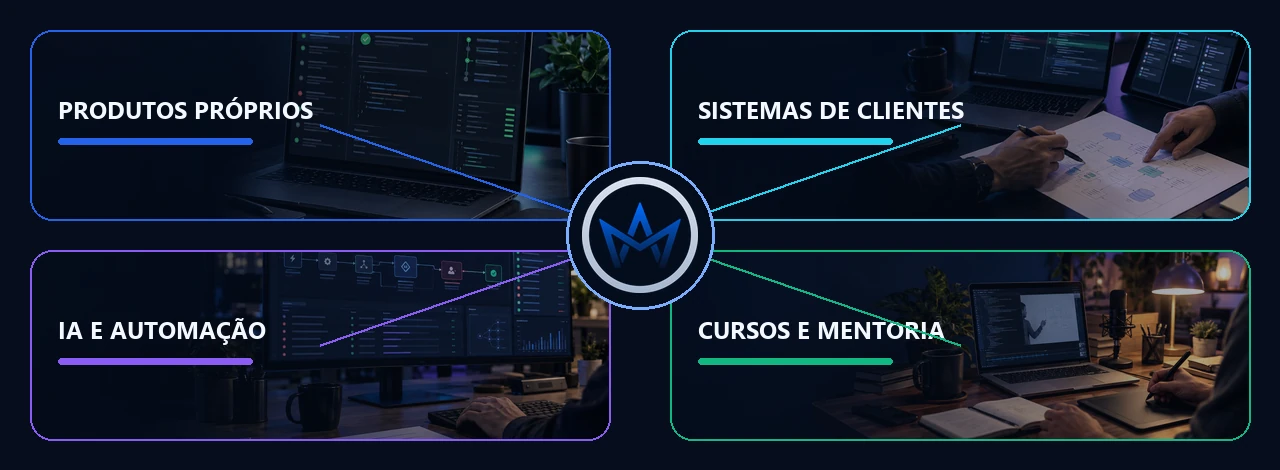
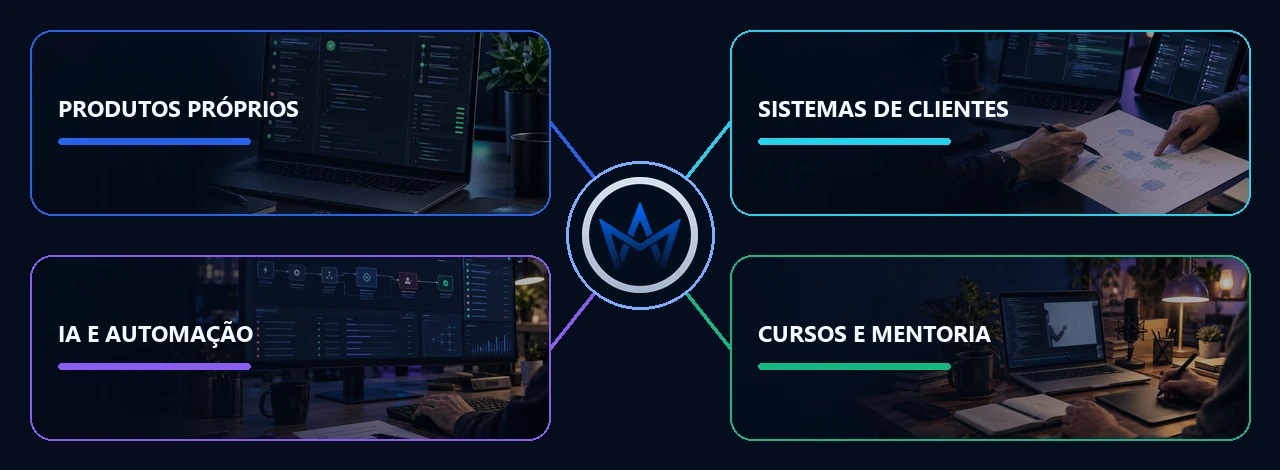
fix: keep ecosystem connectors clear of panel content

diff --git a/tests/validate-ecosystem-map.py b/tests/validate-ecosystem-map.py
@@ -1,0 +1,21 @@
+from pathlib import Path
+from math import dist
+
+from PIL import Image
+
+
+image = Image.open(Path(__file__).parents[1] / "assets" / "ecosystem-map.webp").convert("RGB")
+
+# These points sit inside the four content panels. Connector strokes must stay
+# in the central corridor instead of crossing these positions.
+for point, accent in {
+    (480, 180): (37, 99, 235),
+    (800, 180): (34, 211, 238),
+    (480, 290): (139, 92, 246),
+    (800, 290): (16, 185, 129),
+}.items():
+    pixel = image.getpixel(point)
+    if dist(pixel, accent) < 70:
+        raise AssertionError(f"connector enters panel content at {point}: {pixel}")
+
+print("ECOSYSTEM_CONNECTORS_OK=4")
